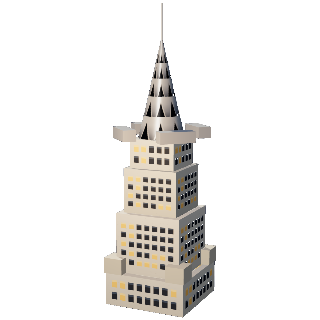
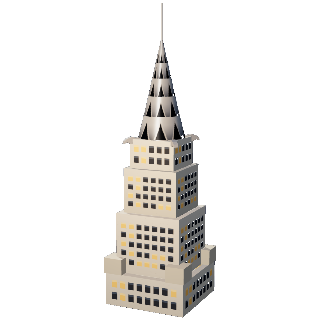
Fix twins that only fit one spot, undefined signs, and three monuments (device feedback)
Twins: a dragged piece moves on a plane through its own spot, and a twin
at another depth (Brooklyn's far tower, a capsule high on the Eye) was
measured metres off it, so a drop right on its outline missed. Each spot
is now measured on its own plane. Twins also trade roles instead of
meshes, so a mirrored twin (stay fans, Eiffel legs) never lands
backwards. The first twin picked up says it fits any matching outline.

Signs: SF street 1 sets ads: [], and every sign painted 'undefined'.
An empty list now falls back like a missing one. sign-text.mjs checks
every string painted on every street.

Eye: rim, gold ring, spokes and hub are one wheel piece.
Chrysler: the four eagle boxes are now eagle heads on the top block,
and the corner shoulders arrive with the base.
Brooklyn: one cable piece, one stay fan per tower (12 pieces, was 15),
in the real order: towers, cables, deck, stays.

Changed region(s): [[0.4688, 0.375, 0.6562, 0.4688], [0.3438, 0.375, 0.4375, 0.4688]]

diff --git a/src/puzzle/landmarks.js b/src/puzzle/landmarks.js
@@ -133,20 +133,27 @@ const defs = {
   // chrome sunburst crown tiers (dark triangular cutouts) ~40% of the
   // height, tall needle. (+20% overall)
   chrysler: [
-    B([0, 1.25, 0], [6.4, 2.5, 6.4], '#d8d2c4', 'box', { tex: 'win', tx: { cols: 8, rows: 2 } }),
-    // corner setback shoulders
-    B([2.55, 3.1, 2.55], [1.5, 1.2, 1.5], '#ccc6b6'),
-    B([-2.55, 3.1, 2.55], [1.5, 1.2, 1.5], '#ccc6b6'),
-    B([2.55, 3.1, -2.55], [1.5, 1.2, 1.5], '#ccc6b6'),
-    B([-2.55, 3.1, -2.55], [1.5, 1.2, 1.5], '#ccc6b6'),
+    // the base arrives with its four corner setback shoulders
+    B([0, 1.25, 0], [6.4, 2.5, 6.4], '#d8d2c4', 'box', {
+      tex: 'win', tx: { cols: 8, rows: 2 },
+      adorn: [[1, 1], [-1, 1], [1, -1], [-1, -1]].map(([sx, sz]) =>
+        B([sx * 2.55, 1.85, sz * 2.55], [1.5, 1.2, 1.5], '#ccc6b6')),
+    }),
     B([0, 4.8, 0], [5.2, 4.6, 5.2], '#ded8ca', 'box', { tex: 'win', tx: { cols: 7, rows: 5 } }),
     B([0, 8.8, 0], [4.3, 3.4, 4.3], '#d4cec0', 'box', { tex: 'win', tx: { cols: 6, rows: 4 } }),
-    B([0, 11.6, 0], [3.6, 2.2, 3.6], '#ded8ca', 'box', { tex: 'win', tx: { cols: 5, rows: 2 } }),
-    // chrome eagles, 3x bigger so they read from the plaza
-    B([2.1, 13.1, 2.1], [1.0, 0.85, 2.7], '#e6ebf4', 'box', { rotY: -Math.PI / 4, metal: 1 }),
-    B([-2.1, 13.1, 2.1], [1.0, 0.85, 2.7], '#e6ebf4', 'box', { rotY: Math.PI / 4, metal: 1 }),
-    B([2.1, 13.1, -2.1], [1.0, 0.85, 2.7], '#e6ebf4', 'box', { rotY: -3 * Math.PI / 4, metal: 1 }),
-    B([-2.1, 13.1, -2.1], [1.0, 0.85, 2.7], '#e6ebf4', 'box', { rotY: 3 * Math.PI / 4, metal: 1 }),
+    // The top block carries the chrome eagle heads at its corners, craning
+    // out diagonally with hooked beaks. As four loose boxes they read as
+    // random blocks stuck on the corners (device feedback).
+    B([0, 11.6, 0], [3.6, 2.2, 3.6], '#ded8ca', 'box', {
+      tex: 'win', tx: { cols: 5, rows: 2 },
+      adorn: [[1, 1], [-1, 1], [1, -1], [-1, -1]].map(([sx, sz]) =>
+        B([sx * 1.72, 0.95, sz * 1.72], [1.25, 0.62, 0.34], '#e6ebf4', 'extrude', {
+          metal: 1, rotY: Math.atan2(-sz, sx),
+          // side profile: neck from the corner, head, beak hooked down
+          outline: [[-0.5, -0.35], [0.12, -0.3], [0.3, -0.12], [0.5, -0.32], [0.46, 0.02],
+            [0.3, 0.3], [0.02, 0.5], [-0.5, 0.3]],
+        })),
+    }),
     // chrome sunburst crown: telescoping tiers with dark triangular windows
     B([0, 13.55, 0], [3.6, 1.7, 2.75], '#e6ebf4', 'tier', { tex: 'crown', metal: 1, em: '#fff2d8', emI: 0.16 }),
     B([0, 15.1, 0], [2.75, 1.55, 2.05], '#dde3ee', 'tier', { tex: 'crown', metal: 1, em: '#fff2d8', emI: 0.18 }),
@@ -170,8 +177,9 @@ const defs = {
     B([6.2, 0.6, 0], [3.4, 1.2, 5.4], '#9d917b', 'box', { tex: 'relief' }),
     B([-12.6, 2.1, 0], [3.2, 4.2, 5.0], '#a89a80', 'box', { tex: 'ashlar' }),
     B([12.6, 2.1, 0], [3.2, 4.2, 5.0], '#a89a80', 'box', { tex: 'ashlar' }),
-    // the deck, with the raised timber promenade down its middle
-    // hung from the cables once they were spun, so placed after them
+    // the deck, with the raised timber promenade down its middle: hung from
+    // the cables once they were spun, and the stays added after it — the
+    // real order: towers, cables, deck, stays
     B([-8.9, 3.7, 0], [5.4, 0.5, 4.0], '#6f675d', 'box', { sortY: 14 }),
     B([8.9, 3.7, 0], [5.4, 0.5, 4.0], '#6f675d', 'box', { sortY: 14 }),
     B([0, 3.7, 0], [9.0, 0.5, 4.0], '#766d62', 'box', {
@@ -200,20 +208,21 @@ const defs = {
         ]),
       ],
     })),
-    // the four main cables, hung after the towers
-    B([0, 3.9, 1.7], [25.2, 0.7, 0.3], '#e6e0d0', 'cable',
-      { sortY: 12.5, cable: { towerX: 6.2, topY: 12.9, midY: 4.6, endX: 12.4, endY: 4.0, deckY: 4.0, hangers: 13, r: 0.2 } }),
-    B([0, 3.9, -1.7], [25.2, 0.7, 0.3], '#e6e0d0', 'cable',
-      { sortY: 12.5, cable: { towerX: 6.2, topY: 12.9, midY: 4.6, endX: 12.4, endY: 4.0, deckY: 4.0, hangers: 13, r: 0.2 } }),
-    // the web: stays fanning from each tower top, inward and outward
-    B([-3.4, 8.3, 0], [5.8, 9.2, 3.6], '#ddd6c4', 'fan',
-      { sortY: 13, fan: { ax: -2.8, ay: 4.4, x0: -2.0, x1: 2.6, deckY: -4.4, n: 6, z: 1.7, r: 0.06 } }),
-    B([3.4, 8.3, 0], [5.8, 9.2, 3.6], '#ddd6c4', 'fan',
-      { sortY: 13, fan: { ax: 2.8, ay: 4.4, x0: 2.0, x1: -2.6, deckY: -4.4, n: 6, z: 1.7, r: 0.06 } }),
-    B([-9.2, 8.3, 0], [5.8, 9.2, 3.6], '#ddd6c4', 'fan',
-      { sortY: 13, fan: { ax: 3.0, ay: 4.4, x0: 2.2, x1: -2.4, deckY: -4.4, n: 6, z: 1.7, r: 0.06 } }),
-    B([9.2, 8.3, 0], [5.8, 9.2, 3.6], '#ddd6c4', 'fan',
-      { sortY: 13, fan: { ax: -3.0, ay: 4.4, x0: -2.2, x1: 2.4, deckY: -4.4, n: 6, z: 1.7, r: 0.06 } }),
+    // The main cables, all four spun together: one piece, after the towers.
+    B([0, 3.9, 1.7], [25.2, 0.7, 0.3], '#e6e0d0', 'cable', {
+      sortY: 12.5,
+      cable: { towerX: 6.2, topY: 12.9, midY: 4.6, endX: 12.4, endY: 4.0, deckY: 4.0, hangers: 13, r: 0.2 },
+      adorn: [B([0, 0, -3.4], [25.2, 0.7, 0.3], '#e6e0d0', 'cable',
+        { cable: { towerX: 6.2, topY: 12.9, midY: 4.6, endX: 12.4, endY: 4.0, deckY: 4.0, hangers: 13, r: 0.2 } })],
+    }),
+    // The web: one piece per tower, stays fanning both ways from its top.
+    // Both are the same shape, so either fits either tower.
+    ...[-6.2, 6.2].map((x) => B([x, 8.3, 0], [11.6, 9.2, 3.6], '#ddd6c4', 'fan', {
+      sortY: 14.5,
+      fan: { ax: 0, ay: 4.4, x0: 0.8, x1: 5.4, deckY: -4.4, n: 6, z: 1.7, r: 0.06 },
+      adorn: [B([0, 0, 0], [11.6, 9.2, 3.6], '#ddd6c4', 'fan',
+        { fan: { ax: 0, ay: 4.4, x0: -0.8, x1: -5.4, deckY: -4.4, n: 6, z: 1.7, r: 0.06 } })],
+    })),
   ],
 
   // ================= PARIS =================
@@ -407,11 +416,17 @@ const defs = {
     B([0, 5.6, 1.0], [2.6, 0.24, 0.24], '#e0dcd2', 'box', { rotX: -0.25 }),
     B([-0.62, 4.15, -1.35], [0.34, 8.6, 0.34], '#c5ccd6', 'cyl', { rotZ: -0.14, rotX: 0.3 }),
     B([0.62, 4.15, -1.35], [0.34, 8.6, 0.34], '#c5ccd6', 'cyl', { rotZ: 0.14, rotX: 0.3 }),
-    // rim + a warm gold rim-light ring just inside it
-    B([0, 8.2, 0], [13.0, 13.0, 0.40], '#f4f6fa', 'torus', { em: '#ffd9a0', emI: 0.55 }),
-    B([0, 8.2, 0], [12.1, 12.1, 0.16], '#e8b45e', 'torus', { metal: 1, em: '#ffc46a', emI: 0.95 }),
-    B([0, 8.2, 0], [12.4, 0.13, 0.13], '#d6dbe4', 'spokes', { n: 12, spin: 0.11, em: '#ffd9a0', emI: 0.3 }),
-    B([0, 8.2, 0], [1.9, 1.5, 1.9], '#8d97a6', 'cyl', { rotX: Math.PI / 2, em: '#ffc266', emI: 1.0 }),
+    // The wheel is ONE piece: rim, gold rim-light ring, spokes and hub.
+    // As four separate pieces, each parked at under half size, a thin ring
+    // and a bundle of sticks did not read as a wheel (device feedback).
+    B([0, 8.2, 0], [13.0, 13.0, 0.40], '#f4f6fa', 'torus', {
+      em: '#ffd9a0', emI: 0.55, spin: 0.11,
+      adorn: [
+        B([0, 0, 0], [12.1, 12.1, 0.16], '#e8b45e', 'torus', { metal: 1, em: '#ffc46a', emI: 0.95 }),
+        B([0, 0, 0], [12.4, 0.13, 0.13], '#d6dbe4', 'spokes', { n: 12, em: '#ffd9a0', emI: 0.3 }),
+        B([0, 0, 0], [1.9, 1.5, 1.9], '#8d97a6', 'cyl', { rotX: Math.PI / 2, em: '#ffc266', emI: 1.0 }),
+      ],
+    }),
     // capsules: big readable ovoids mounted outboard of the rim
     ...vring(8.2, 7.35, 10, [3.0, 1.6, 1.6], '#2b93c4', 'pod', { glass: 1, op: 0.96, em: '#ffb85a', emI: 0.16, sortY: 9.5 }),
   ],

diff --git a/src/puzzle/puzzle.js b/src/puzzle/puzzle.js
@@ -2146,6 +2146,13 @@ export class Puzzle {
 
   beginDrag(item) {
     this.dragging = item;
+    // Identical pieces (the Eye's capsules, a bridge's two towers) fit any of
+    // their outlines. Say so once, the first time one is picked up.
+    if (!this.twinHinted && this.hintFn) {
+      const s = sig(item.def);
+      const n = this.items.filter((o) => !o.placed && sig(o.def) === s).length;
+      if (n > 1) { this.twinHinted = true; this.hintFn(`This fits any of the ${n} matching outlines`); }
+    }
     // A Louvre wing at full size, carried under the finger, covers the very
     // outline it is meant to be dropped on. Carried pieces are capped at 5m.
     item.mesh.scale.setScalar(Math.min(parkScale(item.def), 5 / Math.max(...effSize(item.def))));
@@ -2156,6 +2163,7 @@ export class Puzzle {
   dragTo(nx, ny) {
     const it = this.dragging;
     if (!it) return;
+    this.dragNdc = { x: nx, y: ny };
     const pt = this.pointOnTargetPlane(nx, ny, it);
     if (!pt) return;
     it.mesh.position.lerp(pt, 0.55);
@@ -2173,11 +2181,20 @@ export class Puzzle {
     it.mesh.scale.setScalar(parkScale(it.def));
     const s = sig(it.def);
     let best = null, bestD = Infinity;
+    // Each candidate spot is measured where the finger's ray crosses a plane
+    // through THAT spot. The carried piece moves on a plane through its own
+    // spot, so a twin at another depth (Brooklyn's far tower, a capsule at
+    // the top of the Eye) would otherwise sit metres off that plane and never
+    // accept a drop that is right on its outline on screen.
+    const ndc = this.dragNdc;
     for (const o of this.items) {
       if (o.placed || this.flying.includes(o) || sig(o.def) !== s) continue;
-      const d = it.mesh.position.distanceTo(new THREE.Vector3(...o.def.p));
+      const target = new THREE.Vector3(...o.def.p);
+      const at = (ndc && this.pointOnTargetPlane(ndc.x, ndc.y, o)) || it.mesh.position;
+      const d = at.distanceTo(target);
       if (d < bestD) { bestD = d; best = o; }
     }
+    this.dragNdc = null;
     // Forgiving on purpose (first device feedback: "a tiny bit too precise").
     const snap = Math.max(2.2, 0.4 * Math.max(...it.def.s));
     let result = 'miss';
@@ -2191,14 +2208,29 @@ export class Puzzle {
       else result = 'placed';
     }
     if (result === 'placed') {
-      // Interchangeable pieces trade places: this mesh takes the spot it was
-      // dropped on, and the other piece keeps the parked mesh.
+      // Interchangeable pieces trade places. The spot's own mesh takes over
+      // at the drop point and flies in, and the carried mesh goes to wherever
+      // the spot's piece was parked. Meshes are never moved between spots:
+      // mirrored twins (Brooklyn's stay fans, the Eiffel's legs) look alike
+      // parked but are built for one side, and a swapped one lands backwards.
       if (best !== it) {
-        [it.mesh, best.mesh] = [best.mesh, it.mesh];
+        const bm = best.mesh, im = it.mesh;
+        bm.position.copy(im.position);
+        bm.rotation.copy(im.rotation);
+        bm.scale.copy(im.scale);
+        bm.visible = true;
+        resaturate(bm);
+        forEachMat(bm, (m) => { m.emissiveIntensity = Math.max(m.userData.baseEm || 0, 0.35); });
         [it.parkPos, best.parkPos] = [best.parkPos, it.parkPos];
         [it.rotY0, best.rotY0] = [best.rotY0, it.rotY0];
         [it.turns, best.turns] = [best.turns, it.turns];
         [it.missing, best.missing] = [best.missing, it.missing];
+        im.scale.setScalar(parkScale(it.def));
+        im.rotation.set(0, it.rotY0 || 0, 0);
+        im.position.copy(it.parkPos);
+        im.visible = !it.missing;
+        forEachMat(im, (m) => { m.emissiveIntensity = m.userData.baseEm || 0; });
+        desaturate(im);
       }
       this.flying.push(best);
       best.t = 0.55;               // already close: a short settle, not a full flight

diff --git a/src/cities/builders.js b/src/cities/builders.js
@@ -385,7 +385,7 @@ function paintNeonGround({ g, W, H, shopY, SHOP_H, theme }) {
   g.fillStyle = gr; g.fillRect(4, shopY + 4, W - 8, SHOP_H * 0.34);
   g.fillStyle = 'rgba(255,255,255,.95)';
   g.font = `900 ${(SHOP_H * 0.22) | 0}px Arial`; g.textAlign = 'center'; g.textBaseline = 'middle';
-  g.fillText(pickR(theme.ads || BRANDS.show), W / 2, shopY + 4 + SHOP_H * 0.17, W - 24);
+  g.fillText(pickR(adWords(theme, BRANDS.show)), W / 2, shopY + 4 + SHOP_H * 0.17, W - 24);
   // glass lobby with cool interior
   const gy = shopY + SHOP_H * 0.44;
   const gl = g.createLinearGradient(0, gy, 0, H - 6);
@@ -414,7 +414,7 @@ function paintNeonBody(g, W, H, bodyTop, bodyH, theme) {
     g.fillStyle = 'rgba(255,255,255,.92)';
     g.font = `900 ${Math.max(12, bh * 0.4) | 0}px Arial`;
     g.textAlign = 'center'; g.textBaseline = 'middle';
-    g.fillText(pickR(theme.ads || BRANDS.show), bx + bw / 2, by + bh / 2, bw - 10);
+    g.fillText(pickR(adWords(theme, BRANDS.show)), bx + bw / 2, by + bh / 2, bw - 10);
   }
   // news ticker band
   const ty = bodyTop + bodyH * (0.3 + Math.random() * 0.4);
@@ -1099,7 +1099,7 @@ export function makeGardenWall(theme, len) {
 
 // Bulb-chase marquee canopy with a fictional show name.
 function marqueeFace(theme) {
-  const words = theme.ads || BRANDS.show;
+  const words = adWords(theme, BRANDS.show);
   const wi = (Math.random() * words.length) | 0;
   return cached(`marqMat:${sKey(theme)}:${wi}`, () => {
     const tex = canvasTexture(256, 64, (g) => {
@@ -1529,6 +1529,13 @@ export function makeColumn() {
 }
 
 // Times Square style billboard with per-street ad text.
+// A street's own ad words, or the fallback. An empty list counts as none:
+// SF's Lombard street sets `ads: []`, and indexing an empty list painted
+// "undefined" on its signs.
+function adWords(theme, fallback) {
+  return theme.ads?.length ? theme.ads : fallback;
+}
+
 const ADS = {
   nyc: ['BROADWAY', 'LIVE!', 'CITY RUN', '42nd ST', 'NEON', 'PIZZA', 'JAZZ CLUB'],
   paris: ['CAFÉ', 'MODE', 'PARFUM', 'BISTRO'],
@@ -1538,7 +1545,7 @@ const ADS = {
 };
 
 export function makeBillboard(theme, w = 5, h = 2.6) {
-  const words = theme.ads || ADS[theme.id] || ADS.nyc;
+  const words = adWords(theme, ADS[theme.id] || ADS.nyc);
   // Pool the board faces per street: one texture+material per ad word x hue
   // bucket. Same variety on screen, but nothing new allocated per chunk.
   const wi = (Math.random() * words.length) | 0;
@@ -1723,7 +1730,7 @@ function makeBeacon() {
 // Standing playbill poster board (Broadway).
 function makePlaybill(theme) {
   const g = new THREE.Group();
-  const words = theme.ads || BRANDS.show;
+  const words = adWords(theme, BRANDS.show);
   const wi = (Math.random() * words.length) | 0;
   const boardMat = cached(`playbillMat:${sKey(theme)}:${wi}`, () => {
     const tex = canvasTexture(128, 192, (c) => {
@@ -2696,7 +2703,7 @@ export function makeCurvedLED(theme) {
   const boardGeo = cached('geo:ledBoard', () =>
     new THREE.CylinderGeometry(8.15, 8.15, 3.6, 18, 1, true, 0.05, Math.PI * 0.6 - 0.1));
   for (let i = 0; i < 4; i++) {
-    const words = theme.ads || ['WEST END', 'REVUE ROYALE', 'GINGER SNAP', 'LITES'];
+    const words = adWords(theme, ['WEST END', 'REVUE ROYALE', 'GINGER SNAP', 'LITES']);
     const text = words[i % words.length];
     const hue = (30 + i * 85) % 360;
     const tex = cached(`ledTex:${sKey(theme)}:${i}`, () => canvasTexture(512, 96, (c) => {
